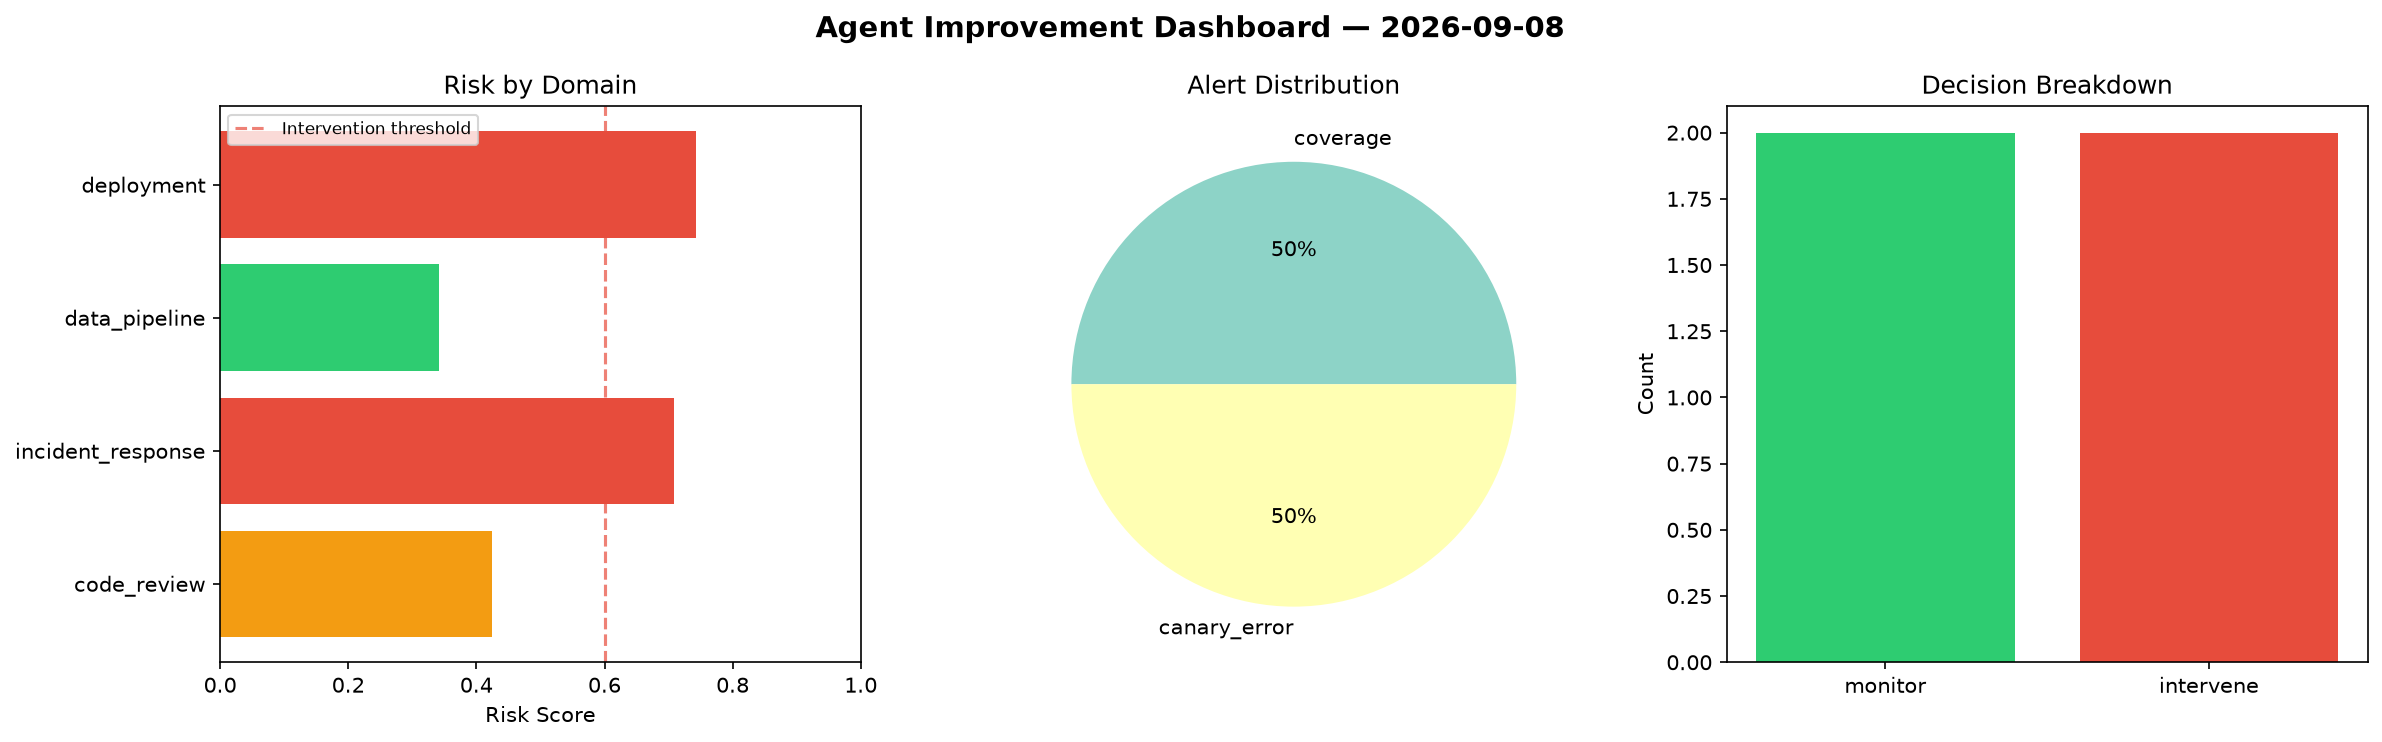
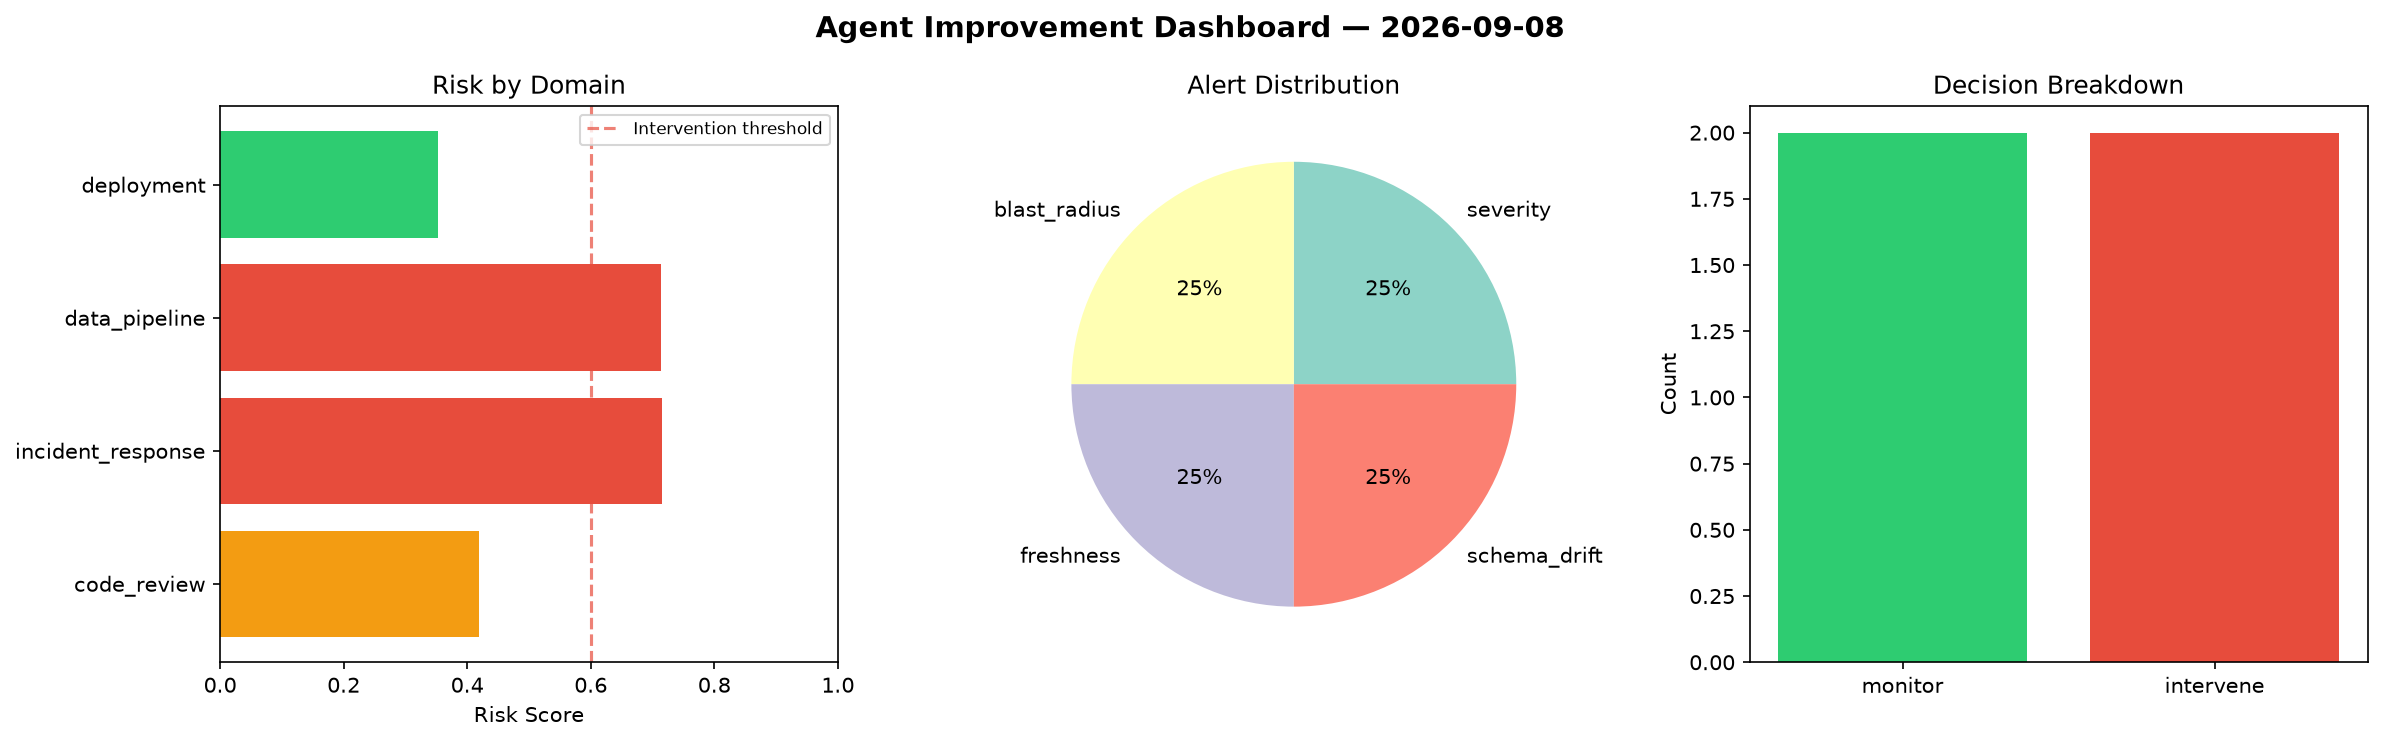
agent-improvement: daily cycle 2026-09-08T22:38

diff --git a/logs/2026-09-08.md b/logs/2026-09-08.md
@@ -1,6 +1,6 @@
 # Agent Improvement Report — 2026-09-08
 
-**Cycle ID:** `cd5769da` | **Avg Risk:** 0.5542 | **Interventions:** 2/4
+**Cycle ID:** `ce16bb1c` | **Avg Risk:** 0.5503 | **Interventions:** 2/4
 
 ![Dashboard](2026-09-08_dashboard.png)
 
@@ -10,18 +10,18 @@
 
 | Domain | Risk Score | Decision | Alerts |
 |--------|-----------|----------|--------|
-| code_review | 0.4237 | monitor | coverage |
-| incident_response | 0.7079 | intervene | none |
-| data_pipeline | 0.3424 | monitor | none |
-| deployment | 0.7429 | intervene | canary_error |
+| code_review | 0.4195 | monitor | none |
+| incident_response | 0.7152 | intervene | severity, blast_radius |
+| data_pipeline | 0.7131 | intervene | freshness, schema_drift |
+| deployment | 0.3534 | monitor | none |
 
 ## Delta vs Yesterday
 
 | Domain | Today | Yesterday | Change |
 |--------|-------|-----------|--------|
-| code_review | 0.4237 | 0.7964 | 📉 -46.8% |
-| incident_response | 0.7079 | 0.3178 | 📈 122.8% |
-| data_pipeline | 0.3424 | 0.1466 | 📈 133.6% |
-| deployment | 0.7429 | 0.5521 | 📈 34.6% |
+| code_review | 0.4195 | 0.7964 | 📉 -47.3% |
+| incident_response | 0.7152 | 0.3178 | 📈 125.0% |
+| data_pipeline | 0.7131 | 0.1466 | 📈 386.4% |
+| deployment | 0.3534 | 0.5521 | 📉 -36.0% |
 
-**Refinement:** `{'adjustment': 'tighten_thresholds', 'trend': 'degrading', 'window': 4}`
+**Refinement:** `{'adjustment': 'maintain', 'trend': 'improving', 'window': 4}`
